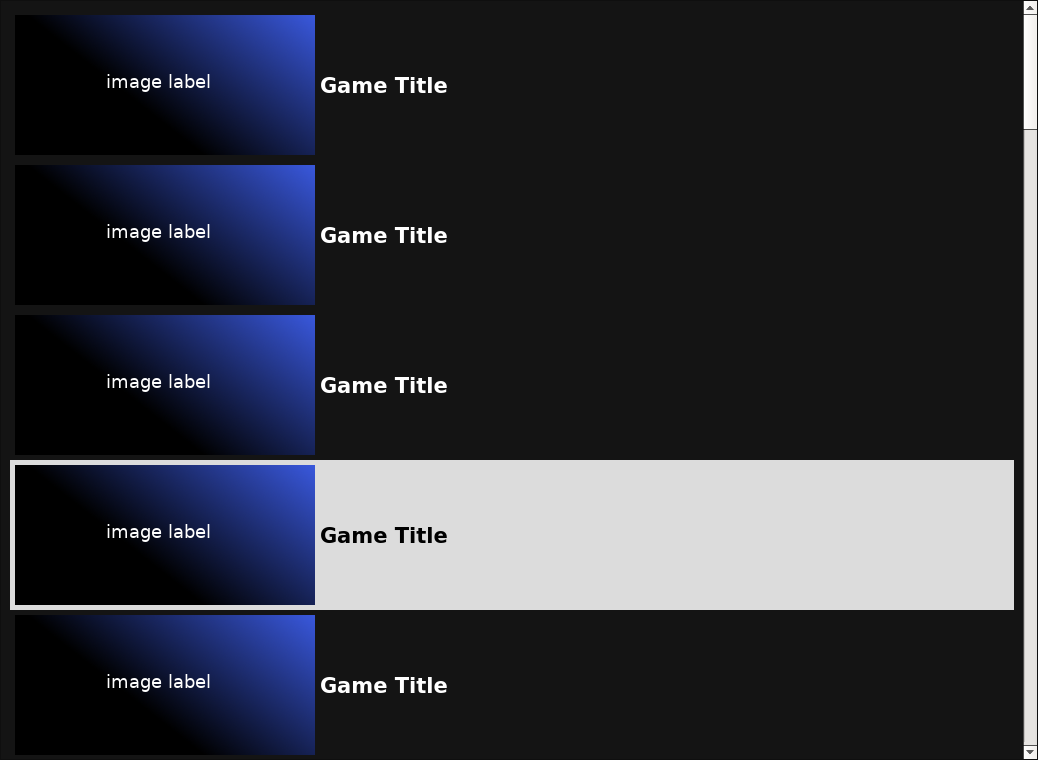
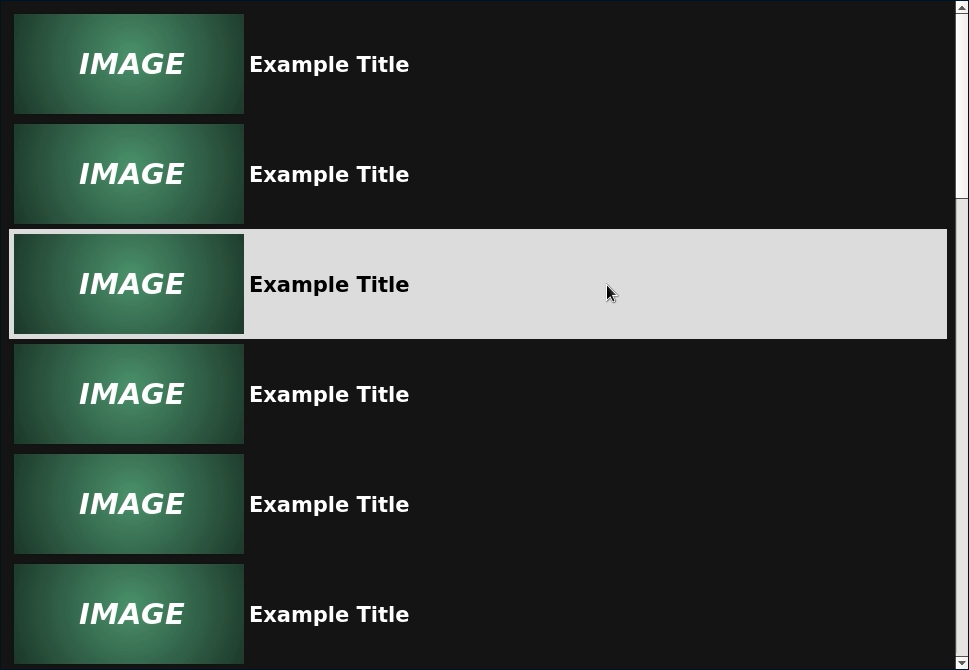
Update screenshot and plans list

diff --git a/README.md b/README.md
@@ -24,8 +24,5 @@ for example, one of my lines looks like this: `"dcss.png","DCSS","crawl-tiles"`
 Single click to select, arrow key navigation, double click or enter to launch
 
 ## Plans:
-- add screenshot
 - nicer styling
-- forced image dimensions
 - keyboard searching
-- categories
